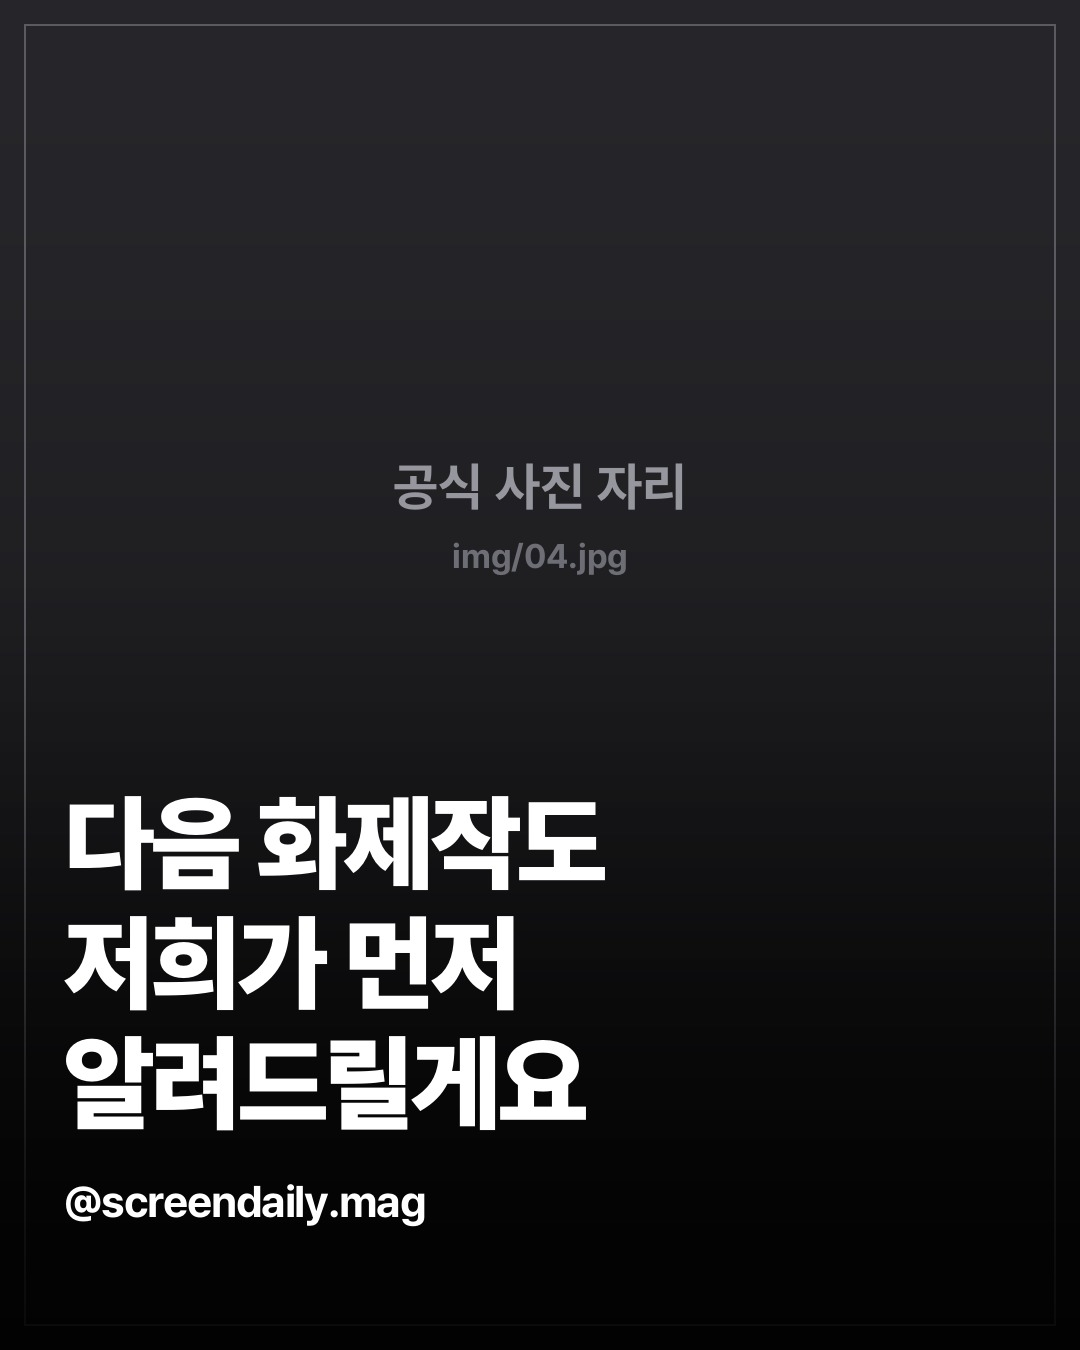
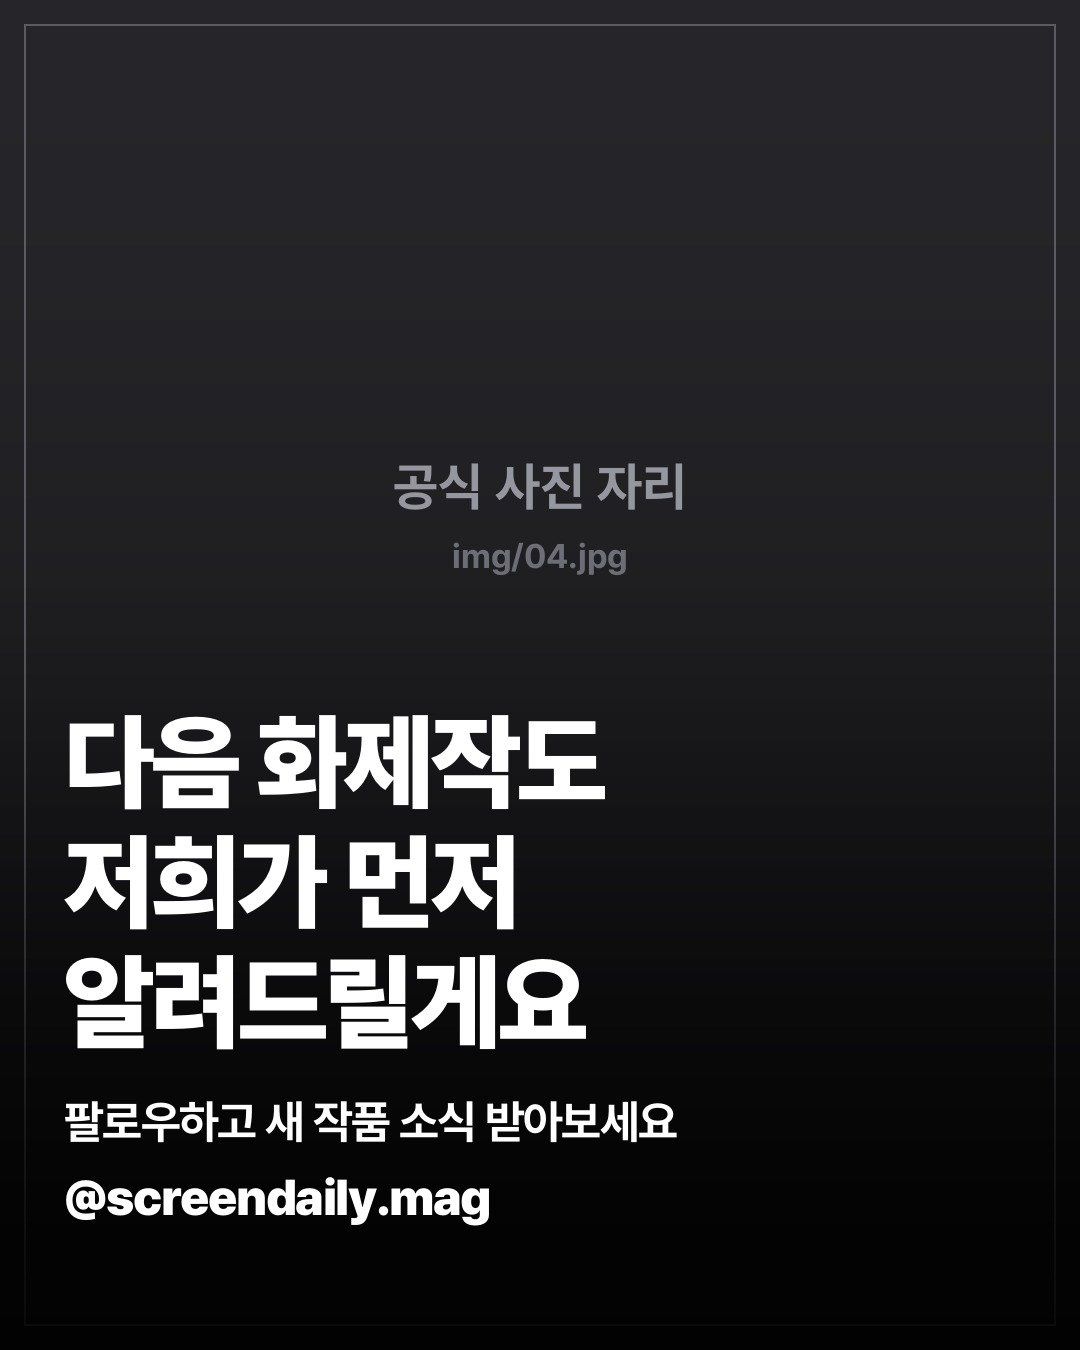
시네마틱 팔로우 장에 팔로우 유도 문구(outro_cta) 추가
Claude-Session: https://claude.ai/code/session_013eU9uqy78NUpQEUrp6z5fd

Changed region(s): [[0.0611, 0.5289, 0.6417, 0.9333]]

diff --git a/screendaily/cards.py b/screendaily/cards.py
@@ -1453,8 +1453,12 @@ def render_cinema_outro(post: Post, config: dict) -> Image.Image:
     rel = post.outro_image or next((it.image for it in reversed(post.items) if it.image), "") or post.cover_image
     canvas, _ = _cine_photo(post, rel, (0.5, 0.35), calm=True)
     lines, f = _cine_fit(post.outro_title or "다음 화제작도\n놓치지 마세요.", 104, 64)
-    blocks = [(lines, f, WHITE, 1.16, 34),
-              ([config.get("handle", "")], font(PT_BOLD, 44), (255, 255, 255, 235), 1.3, 0)]
+    blocks = [(lines, f, WHITE, 1.16, 34)]
+    cta = post.outro_cta or (config.get("outro") or {}).get("cta", "")
+    if cta:  # 팔로우 유도 한 줄 (버튼 모양 없이 글자만)
+        cl, cf = _cine_fit(cta, 46, 32)
+        blocks.append((cl, font(PT_BOLD, cf.size), (255, 255, 255, 225), 1.3, 14))
+    blocks.append(([config.get("handle", "")], font(PT_BLACK, 50), WHITE, 1.3, 0))
     return _cine_text(canvas, blocks, config, watermark=False)
 
 

diff --git a/screendaily/post.py b/screendaily/post.py
@@ -13,7 +13,7 @@ import yaml
 
 from . import ROOT
 
-GENERATOR_VERSION = "12"  # 디자인을 바꾸면 올려서 미리보기를 다시 만들게 함
+GENERATOR_VERSION = "13"  # 디자인을 바꾸면 올려서 미리보기를 다시 만들게 함
 
 
 def channel_config(config: dict, post: "Post | str | None") -> dict:

diff --git a/README.md b/README.md
@@ -151,6 +151,7 @@ git add queue && git commit -m "다음 주 예약" && git push
 실제 작품 사진을 화면 가득 + 하단 검정 그라데이션 + 좌측 하단 큰 흰 고딕(Pretendard Black) 2~3줄. 사진 80% · 글자 20%.
 - **새로 만들기:** `python -m screendaily new 2026-12-03 18:00 --cinema 작품명` → `drafts/cinema_…/` (템플릿 `examples/cinema_template/post.yml`)
 - 01 표지 `cover_style: cinema` (`title`, 선택 `subtitle`) · 02~03 `type: cinema` 카드 (`title` 크게, `desc` 중간 한 줄, `ott` 작게) · 04 `outro_style: cinema` (`outro_title` + 채널 주소, 사진은 `outro_image`)
+- 04장 팔로우 문구는 `outro_cta` (비우면 config `outro.cta`), 그 아래 채널 주소
 - 공식 포스터·스틸만 `img/01.jpg ~ 04.jpg` 로 넣는다 (AI 생성·대체 금지). 없으면 미리보기에 '공식 사진 자리' 가 나오고 lint 가 경고
 - 얼굴이 글자에 가리면 표지 `cover_focus`, 카드 `focus` 를 `"가로,세로"` (0~1) 로 조정
 - 노란 글씨·강조 띠·아이콘·버튼·색보정 없음. 하단 가운데 작은 채널 주소만
